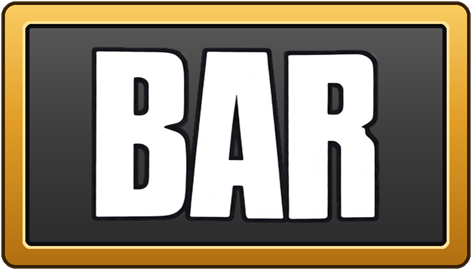
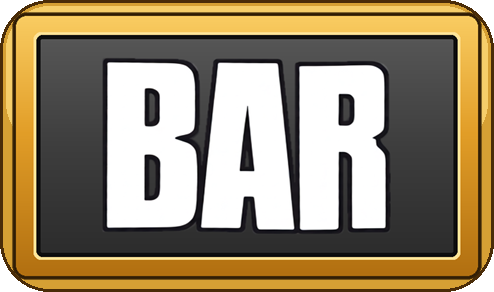
Wheel: peach rim on plum, orange, melon and bell; taller bell; smaller BAR
tools/wheel_symbols.py rebuilds the wheel symbols from their originals
(artwork/wheel_src): peach sticker rim on plum, orange, watermelon and bell, the
bell stretched taller as on the machine, the BAR plate on a slightly thicker gold
frame and drawn a little smaller.

Claude-Session: https://claude.ai/code/session_01QtFU6dnfvYaBk3D56xrstq

diff --git a/game/ui.js b/game/ui.js
@@ -501,7 +501,7 @@
     const bw = (x1 - x0 + 1) / k, bh = (y1 - y0 + 1) / k, bx = (x0 + x1 + 1) / 2 / k, by = (y0 + y1 + 1) / 2 / k;
     const a = -Math.PI / 2 + (WHEEL_ORDER.indexOf(id) * Math.PI) / 4, R = (D.r + D.inner) / 2 + 4;
     const cx = D.cx + R * Math.cos(a), cy = D.cy + R * Math.sin(a);
-    const boxW = id === "w_bj" ? 172 : 128, boxH = id === "w_bar" ? 76 : id === "w_bj" ? 126 : 100;
+    const boxW = id === "w_bj" ? 172 : id === "w_bar" ? 112 : 128, boxH = id === "w_bar" ? 68 : id === "w_bj" ? 126 : id === "w_csengo" ? 122 : 100;
     const s = Math.min(boxW / bw, boxH / bh);
     Object.assign(im.style, { left: cx - bx * s + "px", top: cy - by * s + "px", width: im.naturalWidth * s + "px", height: im.naturalHeight * s + "px" });
   }

diff --git a/tools/wheel_symbols.py b/tools/wheel_symbols.py
@@ -1,0 +1,43 @@
+"""Wheel symbols (game/assets/objects/w_*.png) from the originals in artwork/wheel_src:
+the fruit and the bell get the peach sticker rim (the bell stretched taller, as on the machine),
+the BAR plate a slightly thicker gold frame.
+
+    python tools/wheel_symbols.py
+"""
+import os
+import sys
+
+import numpy as np
+from PIL import Image, ImageDraw
+
+sys.path.insert(0, os.path.dirname(__file__))
+import add_rim  # noqa: E402
+
+ROOT = os.path.join(os.path.dirname(__file__), "..")
+SRC = os.path.join(ROOT, "artwork", "wheel_src")
+OUT = os.path.join(ROOT, "game", "assets", "objects")
+TMP = os.path.join(SRC, "_tmp.png")
+
+for name, stretch in (("w_szilva", 1.0), ("w_narancs", 1.0), ("w_dinnye", 1.0), ("w_csengo", 1.2)):
+    im = Image.open(os.path.join(SRC, name + ".png")).convert("RGBA")
+    if stretch != 1.0:
+        im = im.resize((im.width, round(im.height * stretch)), Image.LANCZOS)
+    im.save(TMP)
+    add_rim.main(TMP, os.path.join(OUT, name + ".png"))
+os.remove(TMP)
+
+# BAR: the plate on a gold frame a few pixels wider all round
+bar = Image.open(os.path.join(SRC, "w_bar.png")).convert("RGBA")
+a = np.array(bar.getchannel("A")) > 40
+ys, xs = np.where(a)
+bar = bar.crop((xs.min(), ys.min(), xs.max() + 1, ys.max() + 1))
+m = 12
+out = Image.new("RGBA", (bar.width + 2 * m, bar.height + 2 * m), (0, 0, 0, 0))
+d = ImageDraw.Draw(out)
+r = bar.height * 0.14
+d.rounded_rectangle((0, 0, out.width - 1, out.height - 1), radius=r + m, fill=(74, 44, 8, 255))
+d.rounded_rectangle((3, 3, out.width - 4, out.height - 4), radius=r + m - 3, fill=(214, 160, 52, 255))
+d.rounded_rectangle((6, 6, out.width - 7, out.height * 0.5), radius=r + m - 6, fill=(246, 206, 106, 255))
+out.alpha_composite(bar, (m, m))
+out.save(os.path.join(OUT, "w_bar.png"))
+print("done")
